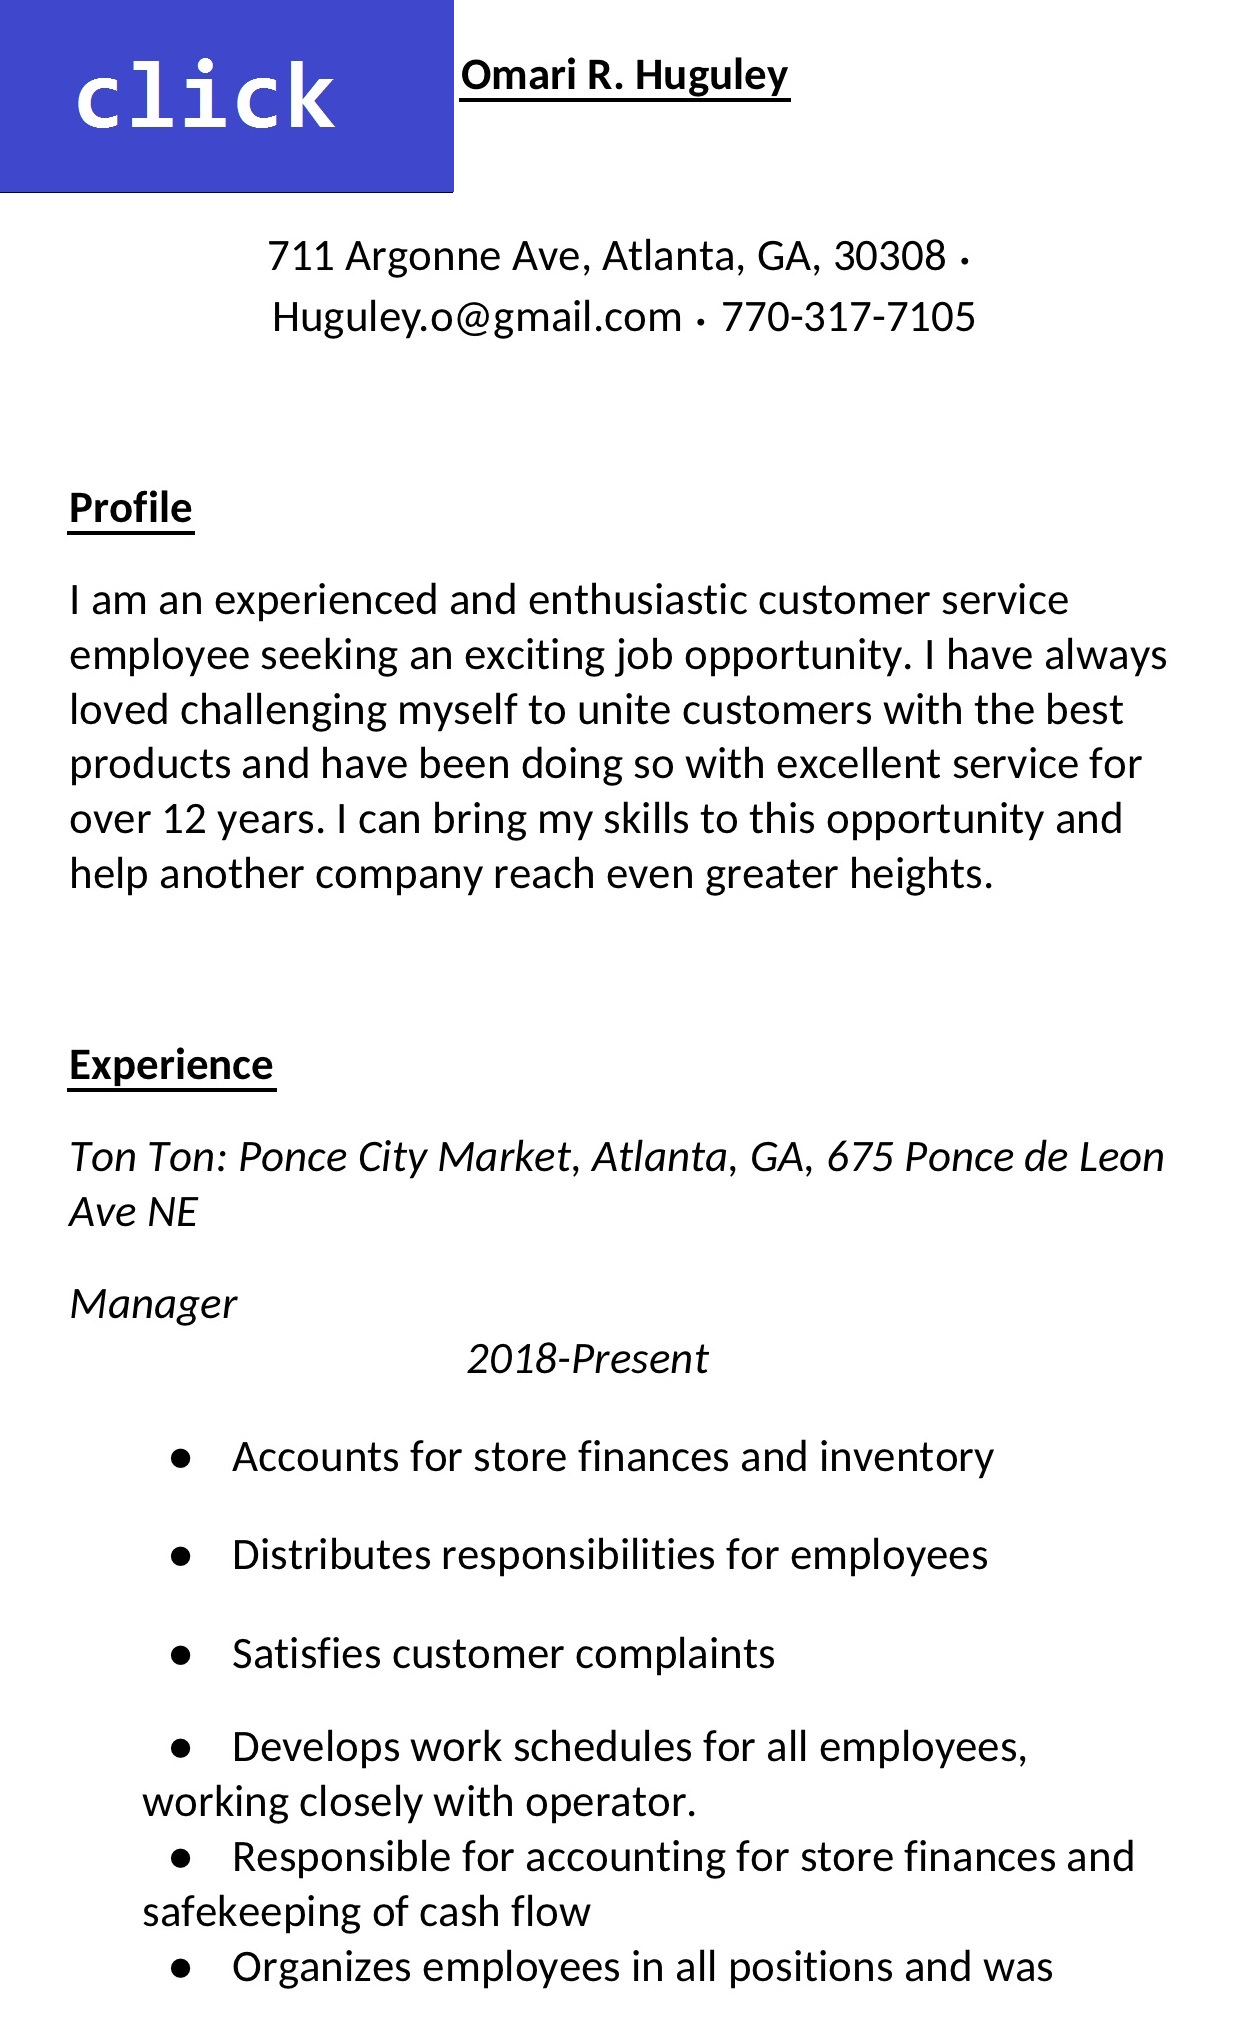
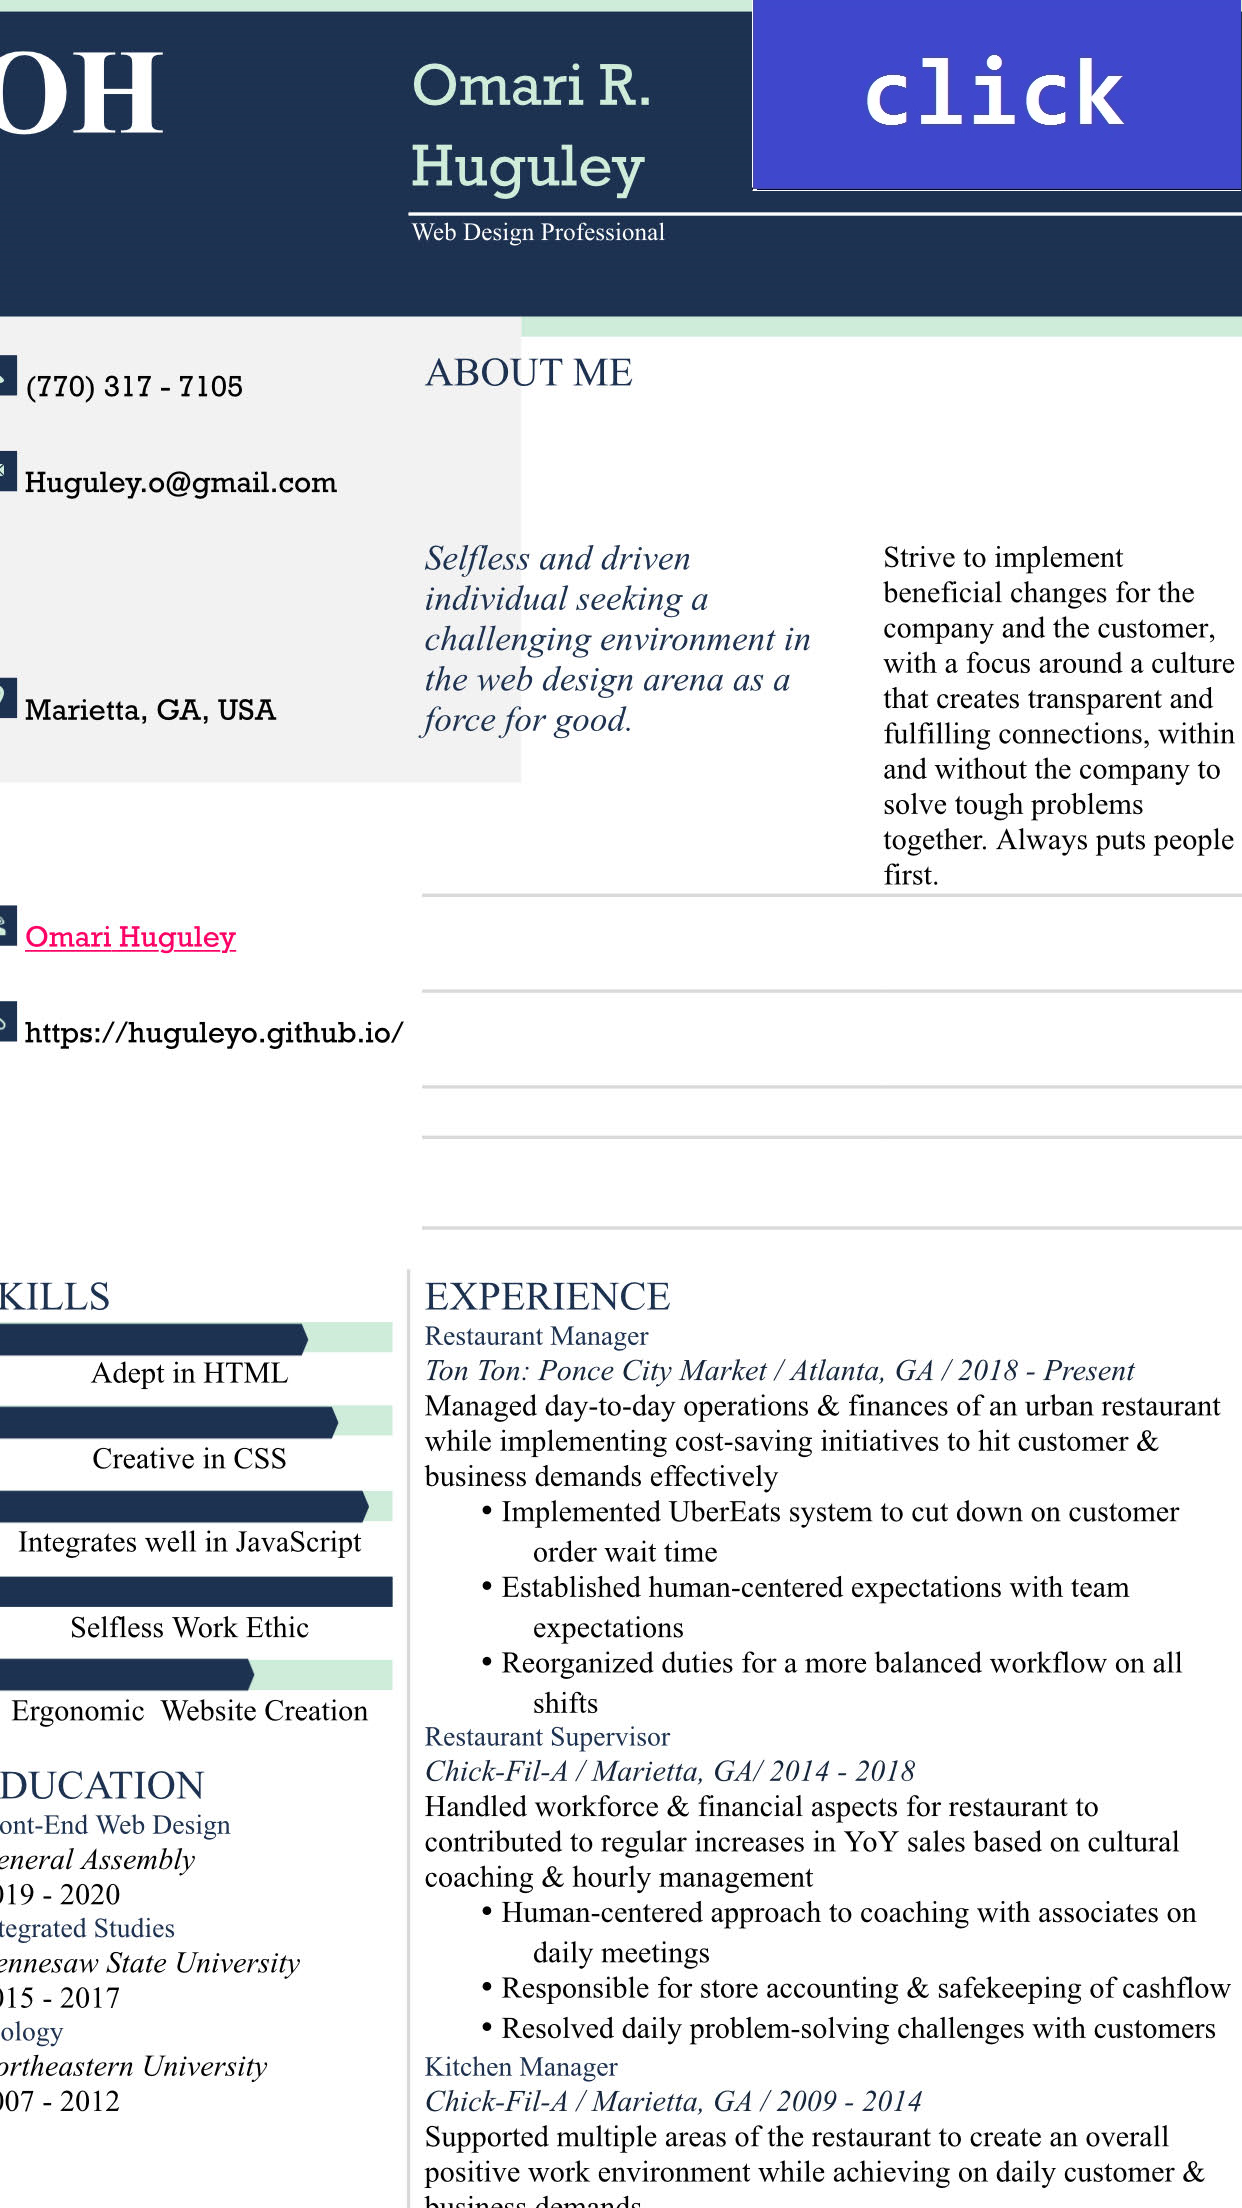
lol

diff --git a/index.html b/index.html
@@ -24,7 +24,7 @@
                     <img class="photo" src="./Images/photo_o.jpg" alt="headshot">
                 </div>
                 <div>
-                    <p> I am an experienced and enthusiastic customer service employee seeking an exciting job opportunity. I have always loved challenging myself to unite customers with the best products and have been doing so with excellent service for over 12 years. I can bring my skills to this opportunity and help another company reach even greater heights.</p>
+                    <p> Driven and Enthusiastic individual newly certified in Web design with General Assembly. Dedicated and loyal employee experienced in management and customer service. Is able to meet deadlines and complete tasks effectively. Enforces rules and successfully strives to implement beneficial changes within the work environment. Dedicates transparent and fulfilling connections within and without the company.</p>
                 </div>
             </div>
             <div class="sample" id="sample">
@@ -34,14 +34,16 @@
                             <button class="modal-buttons" id="close7" href="#">Close</button>
                             </div>
                     <h2>Omari Rashad Huguley</h2>
-                    <h4>711 Argonne Ave, Atlanta, GA, 30308 ∙ Huguley.o@gmail.com ∙ 770-317-7105</h4>
+                    <h4>1750 Kinsmon Cv Marietta, GA 30062 ∙ Huguley.o@gmail.com ∙ 770-317-7105</h4>
                     <h2>Profile</h2>
-                    <h4>I am an experienced and enthusiastic customer service employee seeking an exciting job opportunity. I have always loved challenging myself to unite customers with the best products and have been doing so with excellent service for over 12 years. I can bring my skills to this opportunity and help another company reach even greater heights.</h4>
+                    <h4>Driven and Enthusiastic individual newly certified in Web design with General Assembly. Dedicated and loyal employee experienced in management and customer service. Is able to meet deadlines and complete tasks effectively. Enforces rules and successfully strives to implement beneficial changes within the work environment.</h4>
                     <h2>Experience</h2>
                     <h4>Ton Ton: Ponce City Market, Atlanta, GA, 675 Ponce de Leon Ave NE</h4>
                     <h4>Manager</h4>
                     <h4>2018-Present</h4>
                     <ul>
+                        <li>Implemented a streamline system, Chowley, for UberEats orders, cutting down waiting time for food</li>
+                        <li>Enforced cellphone policy and established a professional environment</li>
                         <li>Accounts for store finances and inventory</li>
                         <li>Distributes responsibilities for employees</li>
                         <li>Satisfies customer complaints</li>
@@ -54,6 +56,7 @@
                     <h4>Supervisor</h4>
                     <h4>2014-2018</h4>
                     <ul>
+                        <li>Instituted an efficient fresh food system, accounting for prior years business and percentage increase in sales</li>
                         <li>Develops work schedules for all employees, working closely with operator.</li>
                         <li>Responsible for accounting for store finances and safekeeping of cash flow</li>
                         <li>Organizes employees in all positions and was responsible for hiring and firing</li>
@@ -87,7 +90,7 @@
                         <li>Introduced customers to a wide variety of products while maintaining a clean shopping experience</li>
                     </ul>
                     <h2>Education</h2>
-                    <h4>General Assembly</h4>
+                    <h4>General Assembly, Atlanta, GA</h4>
                     <h4>2020</h4>
                     <h4>Front-End Web Design: Html, CSS, JavaScript</h4>
                     <h4>Kennesaw State University, Kennesaw, GA</h4>
